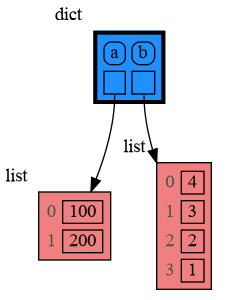
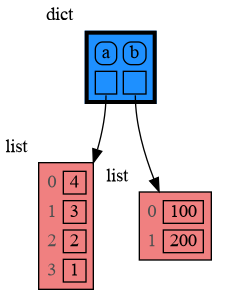
update

diff --git a/images/name_rebinding.py b/images/name_rebinding.py
@@ -4,6 +4,6 @@ a = [4, 3, 2]
 b = a
 mg.render(locals(), 'rebinding1.png')
 
-a += [1]        # changes value of 'a' and 'b'
-a = [100, 200]  # rebinds 'a' to a new value, 'b' is uneffected
+b += [1]        # changes value of 'b' and 'a'
+b = [100, 200]  # rebinds 'b' to a new value, 'a' is uneffected
 mg.render(locals(), 'rebinding2.png')

diff --git a/README.md b/README.md
@@ -215,8 +215,8 @@ a = [4, 3, 2]
 b = a
 mg.render(locals(), 'rebinding1.png')
 
-a += [1]        # changes the value of 'a' and 'b'
-a = [100, 200]  # rebinds 'a' to a new value, 'b' is uneffected
+b += [1]        # changes the value of 'b' and 'a'
+b = [100, 200]  # rebinds 'b' to a new value, 'a' is uneffected
 mg.render(locals(), 'rebinding2.png')
 ```
 | ![rebinding1.png](https://raw.githubusercontent.com/bterwijn/memory_graph/main/images/rebinding1.png) | ![rebinding2.png](https://raw.githubusercontent.com/bterwijn/memory_graph/main/images/rebinding2.png) |
